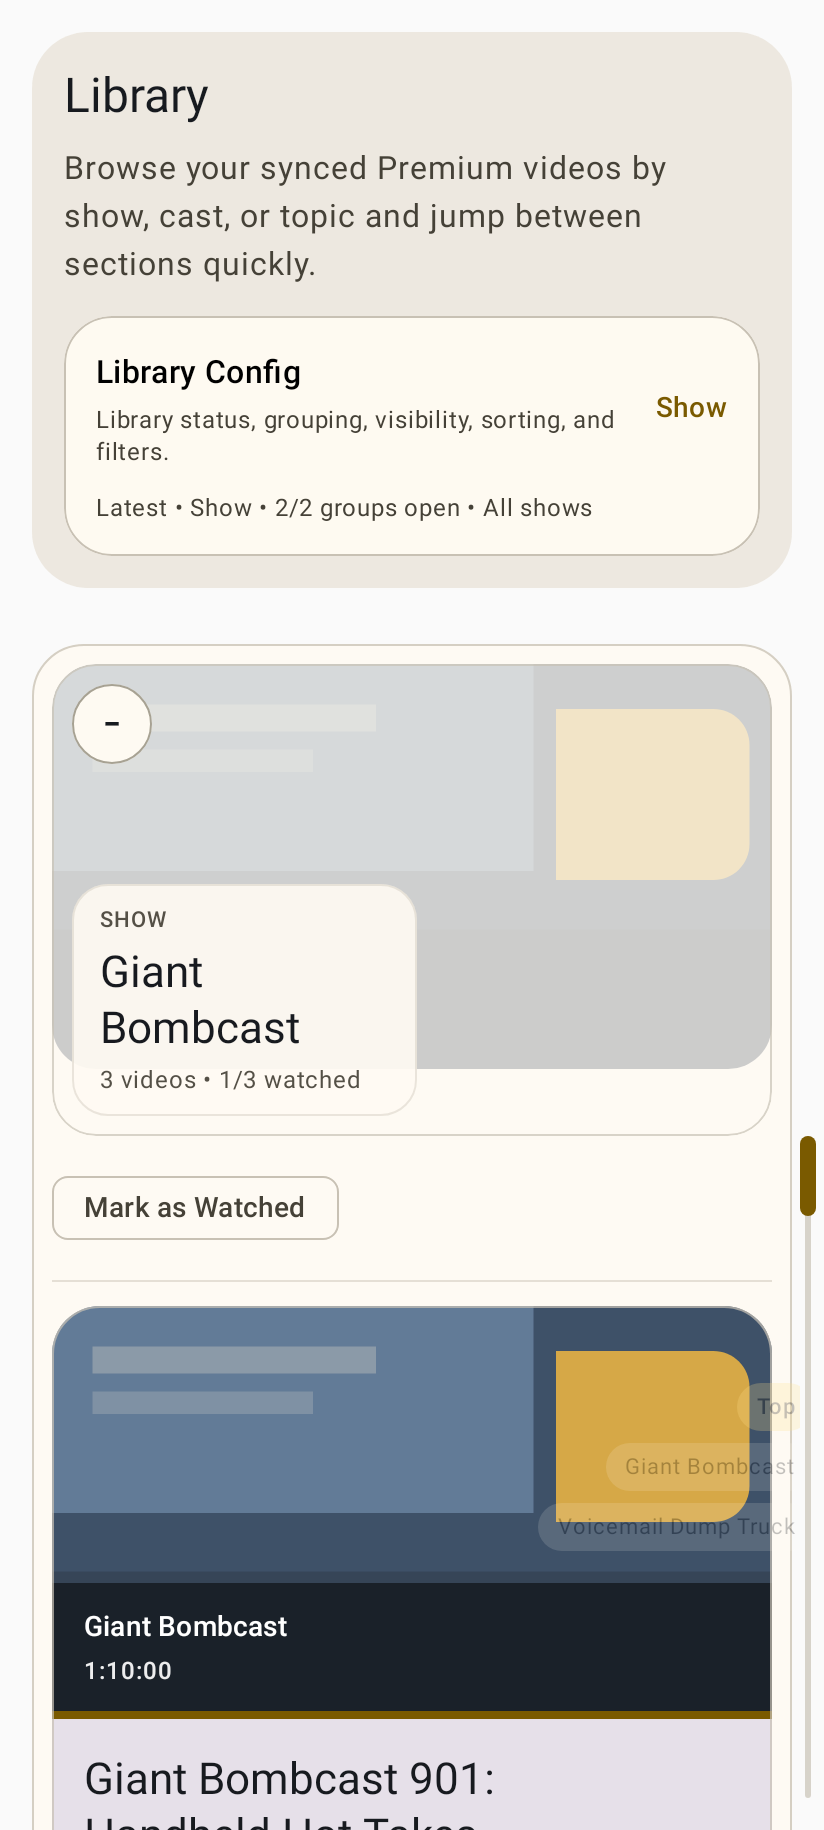
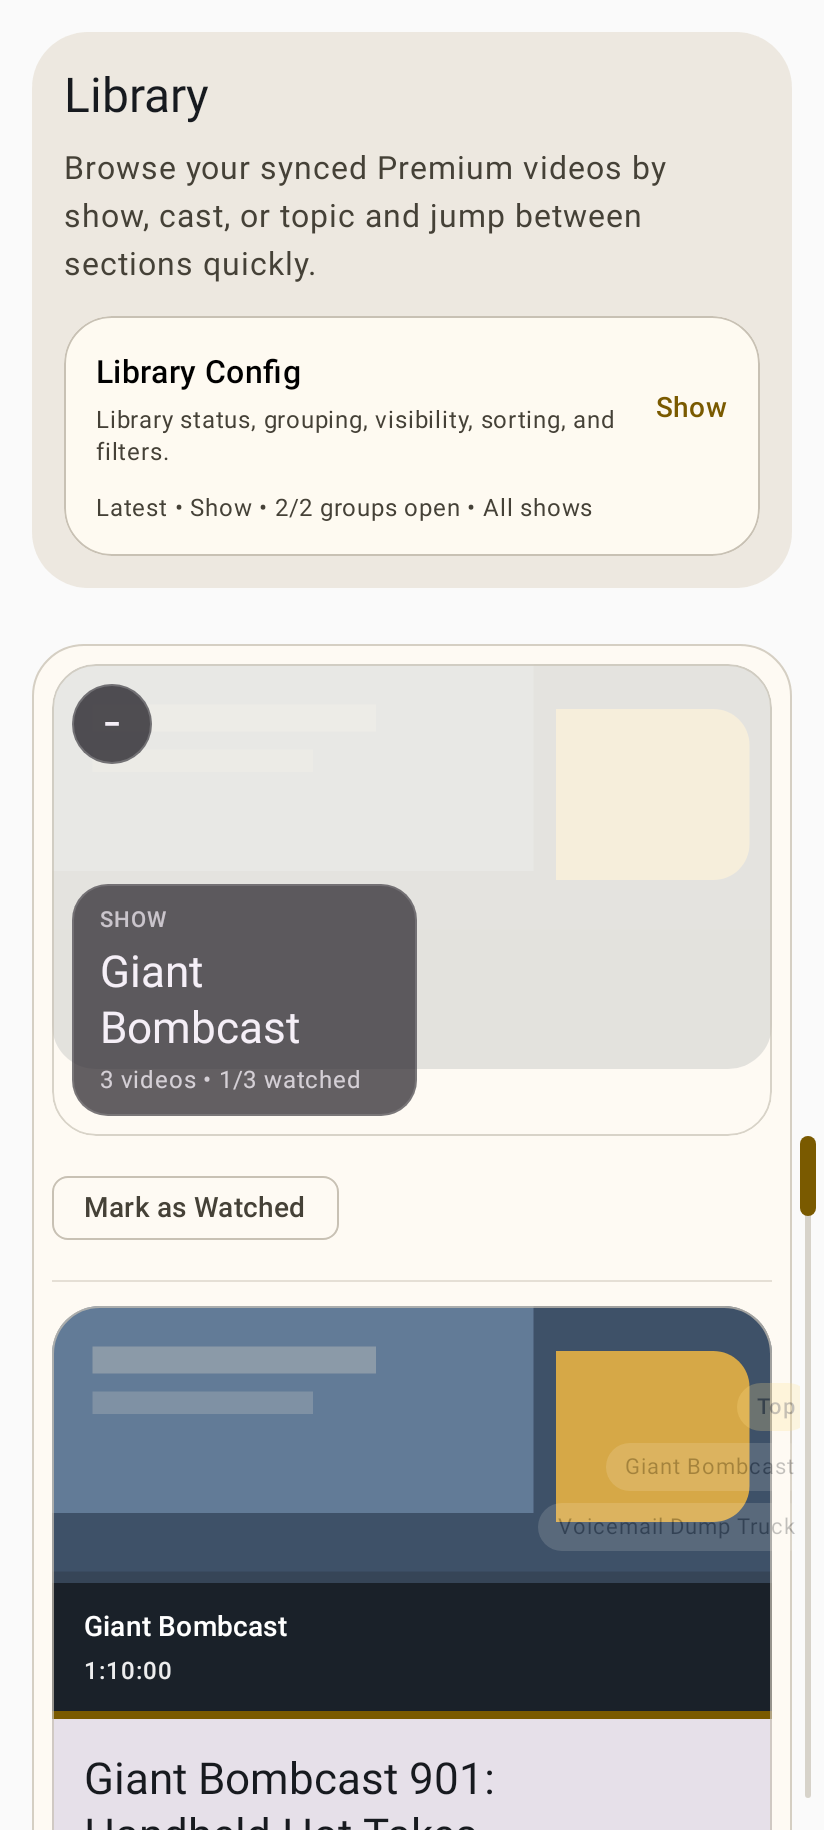
Darken grouped header chrome and stack polish

Changed region(s): [[0.0607, 0.4672, 0.5158, 0.623], [0.091, 0.3738, 0.182, 0.4361]]

diff --git a/feature/library/src/main/java/com/looktube/feature/library/LibraryRoute.kt b/feature/library/src/main/java/com/looktube/feature/library/LibraryRoute.kt
@@ -467,10 +467,10 @@ private fun ExpandedSeriesSectionBackdrop(
 ) {
     SeriesSectionBackdropMosaic(
         section = section,
-        baseArtAlpha = 0.24f,
-        tileArtAlpha = 0.98f,
-        tileColorAlpha = 0.92f,
-        tileShadowElevation = 8.dp,
+        baseArtAlpha = 0.12f,
+        tileArtAlpha = 1f,
+        tileColorAlpha = 0.14f,
+        tileShadowElevation = 4.dp,
     )
 }
 
@@ -480,9 +480,9 @@ private fun CollapsedSeriesSectionBackdrop(
 ) {
     SeriesSectionBackdropMosaic(
         section = section,
-        baseArtAlpha = 0.08f,
-        tileArtAlpha = 0.18f,
-        tileColorAlpha = 0.34f,
+        baseArtAlpha = 0.06f,
+        tileArtAlpha = 0.26f,
+        tileColorAlpha = 0.1f,
         tileShadowElevation = 0.dp,
     )
 }
@@ -624,6 +624,7 @@ private fun CollapsedHeaderPreviewStack(
             CollapsedHeaderPreviewCard(
                 video = video,
                 textEndPadding = textEndPadding,
+                showText = index == 0,
                 modifier = Modifier
                     .align(Alignment.TopStart)
                     .padding(
@@ -645,6 +646,7 @@ private fun CollapsedHeaderPreviewStack(
 private fun CollapsedHeaderPreviewCard(
     video: VideoSummary,
     textEndPadding: Dp,
+    showText: Boolean,
     modifier: Modifier = Modifier,
 ) {
     val thumbnailUrl = video.thumbnailUrl
@@ -652,9 +654,9 @@ private fun CollapsedHeaderPreviewCard(
     Surface(
         modifier = modifier,
         shape = RoundedCornerShape(18.dp),
-        color = MaterialTheme.colorScheme.surface.copy(alpha = 0.84f),
+        color = MaterialTheme.colorScheme.inverseSurface.copy(alpha = if (showText) 0.78f else 0.68f),
         tonalElevation = 0.dp,
-        border = BorderStroke(1.dp, MaterialTheme.colorScheme.outlineVariant.copy(alpha = 0.64f)),
+        border = BorderStroke(1.dp, Color.White.copy(alpha = if (showText) 0.16f else 0.1f)),
     ) {
         Box(
             modifier = Modifier.fillMaxSize(),
@@ -680,42 +682,44 @@ private fun CollapsedHeaderPreviewCard(
                         Brush.verticalGradient(
                             colors = listOf(
                                 Color.Black.copy(alpha = 0.1f),
-                                MaterialTheme.colorScheme.surface.copy(alpha = 0.68f),
-                                MaterialTheme.colorScheme.surface.copy(alpha = 0.9f),
+                                MaterialTheme.colorScheme.inverseSurface.copy(alpha = 0.54f),
+                                MaterialTheme.colorScheme.inverseSurface.copy(alpha = 0.84f),
                             ),
                         ),
                     ),
             )
-            Column(
-                modifier = Modifier
-                    .align(Alignment.BottomStart)
-                    .padding(
-                        start = 12.dp,
-                        top = 10.dp,
-                        end = 12.dp + cappedGroupedContentEndPadding(
-                            textEndPadding = textEndPadding,
-                            maxPadding = GROUPED_COLLAPSED_PREVIEW_MAX_END_PADDING,
+            if (showText) {
+                Column(
+                    modifier = Modifier
+                        .align(Alignment.BottomStart)
+                        .padding(
+                            start = 12.dp,
+                            top = 10.dp,
+                            end = 12.dp + cappedGroupedContentEndPadding(
+                                textEndPadding = textEndPadding,
+                                maxPadding = GROUPED_COLLAPSED_PREVIEW_MAX_END_PADDING,
+                            ),
+                            bottom = 10.dp,
                         ),
-                        bottom = 10.dp,
-                    ),
-                verticalArrangement = Arrangement.spacedBy(2.dp),
-            ) {
-                metadataLine.takeIf(String::isNotBlank)?.let { metadata ->
+                    verticalArrangement = Arrangement.spacedBy(2.dp),
+                ) {
+                    metadataLine.takeIf(String::isNotBlank)?.let { metadata ->
+                        Text(
+                            text = metadata,
+                            style = MaterialTheme.typography.labelSmall,
+                            color = MaterialTheme.colorScheme.inverseOnSurface.copy(alpha = 0.72f),
+                            maxLines = 1,
+                            overflow = TextOverflow.Ellipsis,
+                        )
+                    }
                     Text(
-                        text = metadata,
-                        style = MaterialTheme.typography.labelSmall,
-                        color = MaterialTheme.colorScheme.onSurfaceVariant,
+                        text = video.title,
+                        style = MaterialTheme.typography.titleSmall,
+                        color = MaterialTheme.colorScheme.inverseOnSurface,
                         maxLines = 1,
                         overflow = TextOverflow.Ellipsis,
                     )
                 }
-                Text(
-                    text = video.title,
-                    style = MaterialTheme.typography.titleSmall,
-                    color = MaterialTheme.colorScheme.onSurface,
-                    maxLines = 1,
-                    overflow = TextOverflow.Ellipsis,
-                )
             }
         }
     }
@@ -1193,15 +1197,15 @@ internal fun collapsedHeaderPeekReveal(videoCount: Int): Dp {
 }
 
 private const val GROUP_HEADER_MAX_PEEK_COUNT = 3
-private val GROUP_HEADER_PEEK_REVEAL_STEP = 14.dp
+private val GROUP_HEADER_PEEK_REVEAL_STEP = 18.dp
 private val GROUP_HEADER_PEEK_HORIZONTAL_STAGGER = 18.dp
-private const val GROUP_HEADER_PEEK_CARD_WIDTH_FRACTION = 0.82f
-private val GROUP_HEADER_COMPACT_PREVIEW_CARD_HEIGHT = 56.dp
-private val GROUP_HEADER_COLLAPSED_HEADER_MIN_HEIGHT = 170.dp
+private const val GROUP_HEADER_PEEK_CARD_WIDTH_FRACTION = 0.88f
+private val GROUP_HEADER_COMPACT_PREVIEW_CARD_HEIGHT = 52.dp
+private val GROUP_HEADER_COLLAPSED_HEADER_MIN_HEIGHT = 156.dp
 private val GROUP_HEADER_EXPANDED_HEADER_MIN_HEIGHT = 236.dp
-private val GROUP_HEADER_COLLAPSED_PREVIEW_OVERLAP = (-12).dp
-private val GROUP_HEADER_PREVIEW_CARD_START_PADDING = 18.dp
-private val GROUP_HEADER_PREVIEW_CARD_END_PADDING = 18.dp
+private val GROUP_HEADER_COLLAPSED_PREVIEW_OVERLAP = (-8).dp
+private val GROUP_HEADER_PREVIEW_CARD_START_PADDING = 12.dp
+private val GROUP_HEADER_PREVIEW_CARD_END_PADDING = 12.dp
 private val GROUP_HEADER_BACKDROP_TILE_BLEED = 8.dp
 private const val GROUP_HEADER_BACKDROP_POSITION_JITTER = 0.015f
 private const val GROUP_HEADER_BACKDROP_WIDTH_JITTER = 0.02f
@@ -1221,12 +1225,12 @@ private val GROUP_HEADER_BACKDROP_BASE_TILE_SPECS = listOf(
     GroupHeaderBackdropTileSpec(xFraction = 0.62f, yFraction = 0.46f, widthFraction = 0.38f, heightFraction = 0.28f),
 )
 private val GroupHeaderBackdropPalette = listOf(
-    Color(0xFF4F57CC),
-    Color(0xFFAF4C86),
-    Color(0xFF69BD5B),
-    Color(0xFFF2A126),
-    Color(0xFF5FA8CE),
-    Color(0xFFF3C56F),
+    Color(0xFF1D2430),
+    Color(0xFF28313E),
+    Color(0xFF343C47),
+    Color(0xFF403A30),
+    Color(0xFF273537),
+    Color(0xFF4A4640),
 )
 
 private fun groupHeaderBackdropColor(
@@ -1264,7 +1268,7 @@ private fun collapsedHeaderPeekHorizontalOffset(index: Int): Dp =
     GROUP_HEADER_PEEK_HORIZONTAL_STAGGER * index
 
 private fun collapsedHeaderPeekWidthFraction(index: Int): Float =
-    (GROUP_HEADER_PEEK_CARD_WIDTH_FRACTION - (index * 0.05f)).coerceAtLeast(0.72f)
+    (GROUP_HEADER_PEEK_CARD_WIDTH_FRACTION - (index * 0.02f)).coerceAtLeast(0.82f)
 
 private fun buildCollapsedHeaderPreviewMetadataLine(video: VideoSummary): String = buildList {
     video.publishedAtEpochMillis?.let(::formatPublishedDate)?.let(::add)
@@ -1783,10 +1787,10 @@ private fun SeriesSectionHeader(
                         .padding(10.dp)
                         .size(40.dp),
                     shape = CircleShape,
-                    color = MaterialTheme.colorScheme.surface.copy(alpha = 0.98f),
-                    contentColor = MaterialTheme.colorScheme.onSurface,
+                    color = MaterialTheme.colorScheme.inverseSurface.copy(alpha = 0.84f),
+                    contentColor = MaterialTheme.colorScheme.inverseOnSurface,
                     tonalElevation = 0.dp,
-                    border = BorderStroke(1.dp, MaterialTheme.colorScheme.outline.copy(alpha = 0.64f)),
+                    border = BorderStroke(1.dp, Color.White.copy(alpha = 0.2f)),
                 ) {
                     Box(
                         modifier = Modifier.fillMaxSize(),
@@ -1796,6 +1800,7 @@ private fun SeriesSectionHeader(
                             text = if (isExpanded) "−" else "+",
                             style = MaterialTheme.typography.titleMedium,
                             fontWeight = FontWeight.Bold,
+                            color = MaterialTheme.colorScheme.inverseOnSurface,
                         )
                     }
                 }
@@ -1813,9 +1818,9 @@ private fun SeriesSectionHeader(
                         .fillMaxWidth(if (isExpanded) 0.68f else 0.66f)
                         .widthIn(max = if (isExpanded) 312.dp else 288.dp),
                     shape = RoundedCornerShape(18.dp),
-                    color = MaterialTheme.colorScheme.surface.copy(alpha = 0.9f),
+                    color = MaterialTheme.colorScheme.inverseSurface.copy(alpha = if (isExpanded) 0.76f else 0.84f),
                     tonalElevation = 0.dp,
-                    border = BorderStroke(1.dp, MaterialTheme.colorScheme.outlineVariant.copy(alpha = 0.38f)),
+                    border = BorderStroke(1.dp, Color.White.copy(alpha = 0.14f)),
                 ) {
                     Column(
                         modifier = Modifier.padding(horizontal = 14.dp, vertical = 10.dp),
@@ -1824,7 +1829,7 @@ private fun SeriesSectionHeader(
                         Text(
                             text = section.kindLabel.uppercase(),
                             style = MaterialTheme.typography.labelSmall,
-                            color = MaterialTheme.colorScheme.onSurfaceVariant.copy(alpha = 0.92f),
+                            color = MaterialTheme.colorScheme.inverseOnSurface.copy(alpha = 0.72f),
                         )
                         Text(
                             text = section.title,
@@ -1833,7 +1838,9 @@ private fun SeriesSectionHeader(
                             } else {
                                 MaterialTheme.typography.headlineSmall
                             },
-                            color = MaterialTheme.colorScheme.onSurface,
+                            color = MaterialTheme.colorScheme.inverseOnSurface,
+                            maxLines = if (isExpanded) 2 else 2,
+                            overflow = TextOverflow.Ellipsis,
                         )
                         Text(
                             text = supportingText,
@@ -1842,7 +1849,9 @@ private fun SeriesSectionHeader(
                             } else {
                                 MaterialTheme.typography.bodySmall
                             },
-                            color = MaterialTheme.colorScheme.onSurfaceVariant.copy(alpha = 0.92f),
+                            color = MaterialTheme.colorScheme.inverseOnSurface.copy(alpha = 0.78f),
+                            maxLines = 1,
+                            overflow = TextOverflow.Ellipsis,
                         )
                     }
                 }

diff --git a/feature/library/src/test/java/com/looktube/feature/library/LibraryGroupedHeaderGeometryTest.kt b/feature/library/src/test/java/com/looktube/feature/library/LibraryGroupedHeaderGeometryTest.kt
@@ -10,14 +10,14 @@ class LibraryGroupedHeaderGeometryTest {
     @Test
     fun collapsedHeaderPeekOffsetsUseEqualRevealSteps() {
         val offsets = collapsedHeaderPeekOffsets(videoCount = 5)
-        assertEquals(listOf(14.dp, 28.dp, 42.dp), offsets)
-        assertEquals(42.dp, collapsedHeaderPeekReveal(videoCount = 5))
+        assertEquals(listOf(18.dp, 36.dp, 54.dp), offsets)
+        assertEquals(54.dp, collapsedHeaderPeekReveal(videoCount = 5))
     }
 
     @Test
     fun collapsedHeaderPeeksOnlyCountVideosBehindTheLeadCard() {
         assertEquals(emptyList<Dp>(), collapsedHeaderPeekOffsets(videoCount = 1))
-        assertEquals(listOf(14.dp), collapsedHeaderPeekOffsets(videoCount = 2))
+        assertEquals(listOf(18.dp), collapsedHeaderPeekOffsets(videoCount = 2))
     }
 
     @Test

diff --git a/feature/library/src/test/java/com/looktube/feature/library/LibrarySortTest.kt b/feature/library/src/test/java/com/looktube/feature/library/LibrarySortTest.kt
@@ -465,8 +465,8 @@ class LibrarySortTest {
     fun collapsedHeaderPeekRevealOnlyUsesNeededDepth() {
         assertEquals(0.dp, collapsedHeaderPeekReveal(0))
         assertEquals(0.dp, collapsedHeaderPeekReveal(1))
-        assertEquals(28.dp, collapsedHeaderPeekReveal(3))
-        assertEquals(42.dp, collapsedHeaderPeekReveal(5))
+        assertEquals(36.dp, collapsedHeaderPeekReveal(3))
+        assertEquals(54.dp, collapsedHeaderPeekReveal(5))
     }
 
     @Test
